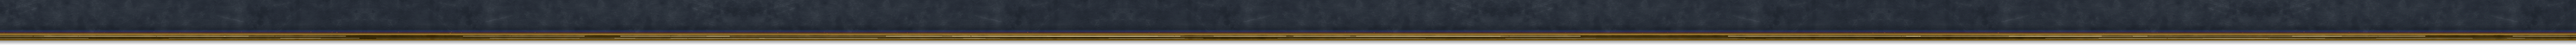
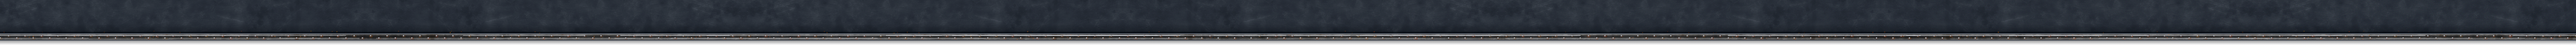
Top bar DS2: riveted steel beam, concrete behind the money, cash on an LED screen

Changed region(s): [[0.0, 0.6765, 1.0, 0.9118]]

diff --git a/price-of-everything-0.1/tools/button_mockup/cluster.html b/price-of-everything-0.1/tools/button_mockup/cluster.html
@@ -2184,7 +2184,7 @@ async function exportLayers() {
   // ?export&only=lamp,scroll renders just those sets and merges their entries into the existing
   // layout.json; the other layers are left as they are. Sets: block, footer, backing, section, keys,
   // lamp, scroll, seam, title, enamel, pin, cable, counter, sheet, plastic, door, heading, module,
-  // toggle, ldoor, modkey, sheetw, darkplate, modicon, screen, econ, diagicon, emblem, bar.
+  // toggle, ldoor, modkey, sheetw, darkplate, modicon, screen, econ, diagicon, emblem, bar, barconcrete.
   const only = new URLSearchParams(location.search).get('only');
   const want = (set) => !only || only.split(',').includes(set);
   const layout = only ? await fetch('/layers/layout.json').then((r) => (r.ok ? r.json() : {})) : {};
@@ -2366,45 +2366,107 @@ async function exportLayers() {
     layout.panel_backing = { size: [PW, PH], corner: 60, trim: TRIM };
   });
 
-  // --- the top bar's strip: the backing's navy steel running off the screen's top and both sides, a
-  // brass trim welded along its foot, and the shadow it throws on the map. Rendered as wide as a 32:9
-  // screen is at 1080 tall (3840 logical px), so the game crops it from the middle and never stretches it.
+  // --- the top bar's strip: the backing's weathered navy steel running off the screen's top and both
+  // sides, a riveted steel beam along its foot, and the shadow the bar throws on the map. Rendered as wide
+  // as a 32:9 screen is at 1080 tall (3840 logical px), so the game crops it from the middle and never
+  // stretches it. `barconcrete` is the concrete slab the game sets behind the money.
+  const BAR = { W: 7200, H: 112.5, BEAM: 16, SHADOW: 15, BLEED: 40 };
   if (want('bar')) await withSeed(424, async () => {
-    const W = 7200, H = 112.5, TRIM = 14, SHADOW = 15, BLEED = 40, group = new THREE.Group();
-    const join = H - TRIM;                                                  // the trim's top edge, where the weld runs
-    const heat = (g, w, h) => {                                             // the weld's heat tint, in bands above the join
-      g.save(); g.filter = 'blur(1.4px)';
-      for (const [d, colour, width] of [[3, 'rgba(222,182,98,0.45)', 2.8], [5.5, 'rgba(170,100,58,0.34)', 2.6], [8, 'rgba(126,82,160,0.26)', 2.6], [10.6, 'rgba(72,108,184,0.2)', 2.8], [13.2, 'rgba(72,108,184,0.08)', 2.8]]) {
-        const y = BLEED + join - d;
-        g.strokeStyle = colour; g.lineWidth = width; g.beginPath(); g.moveTo(0, y); g.lineTo(w, y); g.stroke();
-      }
-      g.restore();
-    };
+    const { W, H, BEAM, SHADOW, BLEED } = BAR, group = new THREE.Group();
+    const join = H - BEAM;                                                  // the beam's top edge
     // The plate reaches past the frame on three sides, so its rubbed edges are off the screen.
     const PW = W + 2 * BLEED, PH = join + BLEED + 6;
-    const face = { icons: [], buttons: [], screws: [], base: NAVY_STEEL_CANVAS, rub: '120,136,160', paint: heat };
+    const face = { icons: [], buttons: [], screws: [], base: NAVY_STEEL_CANVAS, rub: '120,136,160' };
     const steelSide = new THREE.MeshStandardMaterial({ color: 0x3a4250, metalness: 1, roughness: 0.45, envMap: studioEnv, envMapIntensity: 0.8 });
     const plate = new THREE.Mesh(extrude(rrShape(PW, PH, 16), 4, 4.5, 3.6, 6), [plateMaterial(PW, PH, face), steelSide]);
     plate.receiveShadow = true; plate.position.set(W / 2, 0, -BLEED + PH / 2); group.add(plate);
-    // The trim: a long brass bar laid over the plate's foot, its ends off the screen.
-    const tarnish = (r) => `rgba(${60 + r() * 20},${44 + r() * 14},${18 + r() * 10},${0.25 + r() * 0.35})`;
-    const TW = W + 2 * BLEED;
-    const trimFeat = { icons: [], buttons: [], screws: [], base: BRASS_TRIM_CANVAS, rub: '255,236,180', flecks: tarnish };
-    const brassSide = new THREE.MeshStandardMaterial({ color: 0xa8843f, metalness: 1, roughness: 0.4, envMap: studioEnv, envMapIntensity: 0.9 });
-    const trim = new THREE.Mesh(extrude(rrShape(TW, TRIM, 3), 2.5, 3, 2.4, 5), [plateMaterial(TW, TRIM, trimFeat), brassSide]);
-    trim.castShadow = trim.receiveShadow = true; trim.position.set(W / 2, PLATE_TOP - 1, join + TRIM / 2); group.add(trim);
-    const bead = weldBead(TW, 0.2, 0.1, 3.2);                               // in the join along the trim's top
-    bead.position.set(W / 2, PLATE_TOP, join + 1.2); group.add(bead);
-    // The shadow on the map below: one straight band, painted, since a shadow map this long loses
-    // its far end. A dark contact line under the trim, then a soft fall away from the house light.
+    // The beam: a steel flange laid along the plate's foot, weathered, with two staggered rows of rivets
+    // and rust blooming round them. Its ends are off the screen.
+    const BW = W + 2 * BLEED, PITCH = 46, rows = [BEAM * 0.3, BEAM * 0.7];
+    const rivets = [];
+    for (let x = 18, i = 0; x < BW; x += PITCH / 2, i++) rivets.push({ x, y: rows[i % 2] });
+    const bloom = (g) => {
+      g.save(); g.filter = 'blur(1.6px)';
+      for (const r of rivets) {
+        g.fillStyle = `rgba(${120 + rand() * 40},${58 + rand() * 20},${24 + rand() * 12},${0.12 + rand() * 0.2})`;
+        g.beginPath(); g.ellipse(r.x + 0.8, r.y + 1.2, 3.2 + rand() * 2, 2.4 + rand() * 1.6, 0, 0, Math.PI * 2); g.fill();
+      }
+      g.restore();
+    };
+    const beamFeat = { icons: [], buttons: [], screws: [], rub: '226,230,236', paint: bloom };
+    const beamSide = new THREE.MeshStandardMaterial({ color: 0x6b7078, metalness: 1, roughness: 0.5, envMap: studioEnv, envMapIntensity: 0.8 });
+    const beam = new THREE.Mesh(extrude(rrShape(BW, BEAM, 2), 3, 3, 2.4, 5), [plateMaterial(BW, BEAM, beamFeat), beamSide]);
+    beam.castShadow = beam.receiveShadow = true; beam.position.set(W / 2, PLATE_TOP - 1, join + BEAM / 2); group.add(beam);
+    const rivetGeo = new THREE.SphereGeometry(2.3, 14, 7, 0, Math.PI * 2, 0, Math.PI / 2);
+    const rivetMat = new THREE.MeshStandardMaterial({ color: 0x9aa0a8, map: noiseTexture(26, 40, 30), metalness: 1, roughness: 0.46, envMap: studioEnv, envMapIntensity: 0.9 });
+    for (const r of rivets) {
+      const m = new THREE.Mesh(rivetGeo, rivetMat);
+      m.scale.y = 0.55; m.position.set(r.x - BLEED, PLATE_TOP + 7.5, join + r.y); group.add(m);
+    }
     const strip = stage([0, 0, W, H + SHADOW], [group]).grab();
+    // The shadow on the map below: one straight band, painted, since a shadow map this long loses its
+    // far end. A dark contact line under the beam, then a soft fall away from the house light.
     await post('bar_strip', frame2d(W, H + SHADOW, (g) => {
       const fall = g.createLinearGradient(0, H, 0, H + SHADOW);
       fall.addColorStop(0, 'rgba(4,6,10,0.62)'); fall.addColorStop(0.25, 'rgba(4,6,10,0.34)'); fall.addColorStop(1, 'rgba(4,6,10,0)');
       g.fillStyle = fall; g.fillRect(0, H, W, SHADOW);
       g.drawImage(strip, 0, 0, W, H + SHADOW);
     }));
-    layout.bar_strip = { size: [W, H + SHADOW], height: H, trim: TRIM, shadow: SHADOW };
+    layout.bar_strip = { size: [W, H + SHADOW], height: H, beam: BEAM, shadow: SHADOW };
+  });
+  /** Cast concrete, weathered: grey with aggregate showing, bugholes, soft mottling, form-tie holes with rust
+   * run down from them, and chips along its edges. Painted in the slab's own pixels. */
+  const concreteCanvas = (w, h, ties) => canvas2d(w, h, (g) => {
+    g.fillStyle = '#44423f'; g.fillRect(0, 0, w, h);
+    g.save(); g.filter = 'blur(14px)';
+    for (let i = 0; i < Math.round(w * h / 1400); i++) {
+      g.fillStyle = `rgba(${rand() > 0.5 ? '235,230,220' : '20,18,16'},${0.025 + rand() * 0.035})`;
+      g.beginPath(); g.ellipse(rand() * w, rand() * h, 12 + rand() * 40, 8 + rand() * 26, rand() * Math.PI, 0, Math.PI * 2); g.fill();
+    }
+    g.restore();
+    for (let i = 0; i < Math.round(w * h / 9); i++) {                     // fine grain and aggregate
+      const light = rand() > 0.5, big = rand() < 0.08;
+      g.fillStyle = `rgba(${light ? '214,208,196' : '28,26,24'},${0.05 + rand() * (big ? 0.16 : 0.1)})`;
+      const sz = big ? 0.9 + rand() * 1.5 : 0.35 + rand() * 0.5;
+      g.fillRect(rand() * w, rand() * h, sz, sz * (0.6 + rand() * 0.8));
+    }
+    for (let i = 0; i < Math.round(w * h / 900); i++) {                   // bugholes: a dark pit, a lit lower lip
+      const x = rand() * w, y = rand() * h, r = 0.4 + rand() * 1.1;
+      g.fillStyle = 'rgba(14,13,12,0.55)'; g.beginPath(); g.ellipse(x, y, r, r * 0.8, 0, 0, Math.PI * 2); g.fill();
+      g.strokeStyle = 'rgba(210,204,192,0.18)'; g.lineWidth = 0.5; g.beginPath(); g.arc(x, y + 0.3, r, 0.2, Math.PI - 0.2); g.stroke();
+    }
+    for (const [x, y] of ties) {                                           // form ties, with rust run beneath
+      const run = g.createLinearGradient(0, y, 0, y + 26 + rand() * 20);
+      run.addColorStop(0, 'rgba(126,64,26,0.34)'); run.addColorStop(1, 'rgba(126,64,26,0)');
+      g.save(); g.filter = 'blur(1.2px)'; g.fillStyle = run; g.fillRect(x - 2.2, y, 4.4, 48); g.restore();
+      g.fillStyle = 'rgba(30,27,24,0.9)'; g.beginPath(); g.arc(x, y, 3.2, 0, Math.PI * 2); g.fill();
+      g.strokeStyle = 'rgba(190,184,172,0.35)'; g.lineWidth = 0.9; g.beginPath(); g.arc(x, y, 4.4, 0, Math.PI * 2); g.stroke();
+      g.fillStyle = 'rgba(110,62,30,0.8)'; g.beginPath(); g.arc(x, y, 1.4, 0, Math.PI * 2); g.fill();
+    }
+    for (let i = 0; i < Math.round((w + h) / 9); i++) {                   // chips along the edges
+      const side = Math.floor(rand() * 3), t = rand();
+      const x = side === 0 ? 4 + rand() * 6 : side === 1 ? w - 4 - rand() * 6 : 8 + t * (w - 16);
+      const y = side === 2 ? h - 4 - rand() * 6 : 8 + t * (h - 16);
+      g.fillStyle = `rgba(172,166,154,${0.25 + rand() * 0.35})`;
+      g.beginPath(); g.ellipse(x, y, 0.8 + rand() * 2.2, 0.6 + rand() * 1.6, rand() * Math.PI, 0, Math.PI * 2); g.fill();
+    }
+  });
+  // The concrete slab behind the money: cast in, its top off the screen, standing a little proud of the
+  // steel, its foot on the beam; it throws its shadow on the steel down and to the right.
+  if (want('barconcrete')) await withSeed(425, async () => {
+    const { H, BEAM, BLEED } = BAR, CW = 540, M = 16, join = H - BEAM, group = new THREE.Group();
+    const CH = join + BLEED - 1;
+    const ties = [[34, BLEED + 22], [CW - 34, BLEED + 22], [34, BLEED + join - 20], [CW - 34, BLEED + join - 20]];
+    const concrete = new THREE.MeshStandardMaterial({ map: faceTexture(concreteCanvas(CW, CH, ties), CW, CH), roughness: 0.93, metalness: 0,
+      envMap: roomEnv, envMapIntensity: 0.2 });
+    const concreteSide = new THREE.MeshStandardMaterial({ color: 0x55534f, roughness: 0.95, metalness: 0 });
+    const slab = new THREE.Mesh(extrude(rrShape(CW, CH, 3), 5, 2.2, 1.8, 3), [concrete, concreteSide]);
+    slab.castShadow = slab.receiveShadow = true; slab.position.set(M + CW / 2, PLATE_TOP - 1, -BLEED + CH / 2); group.add(slab);
+    // Catch its shadow on the steel either side (the strip is drawn under it), not on the beam.
+    const catcher = new THREE.Mesh(new THREE.PlaneGeometry(CW + 2 * M, join).rotateX(-Math.PI / 2), new THREE.ShadowMaterial({ opacity: 0.6 }));
+    catcher.position.set(M + CW / 2, PLATE_TOP - 1.5, join / 2); catcher.receiveShadow = true; group.add(catcher);
+    await post('bar_concrete', stage([0, 0, CW + 2 * M, H + BAR.SHADOW], [group]).grab());
+    layout.bar_concrete = { size: [CW + 2 * M, H + BAR.SHADOW], outset: M, slab: [CW, join] };
   });
 
   // --- a section frame: a narrow worn steel rim with a screw in each corner, drawn as a 9-slice

diff --git a/price-of-everything-0.1/docs/top-bar-ds2-plan.md b/price-of-everything-0.1/docs/top-bar-ds2-plan.md
@@ -199,6 +199,8 @@ Each phase is one branch-sized change with its renders, scripts, tests and captu
 
 **Phase 1 built (24 September), the strip.** Render set `bar` (seed 424, `cluster.html`) → `assets/ui/bdp_v3/bar_strip.png`: the backing's navy steel running off the screen's top and sides, a 14 layout px brass trim along its foot with a weld bead and heat tint above the join, and the shadow on the map painted as one band below (a shadow map 7200 layout px long lost its far end). It is 3840 logical px wide (32:9 at 1080) and 68 tall (the 60 px bar and 8 of shadow); `top_bar.gd` `_ds2_draw_strip` crops it from the middle at two texels a pixel, so it never stretches. Under the flag the bar's stylebox shadow and silver bezel give way to it, the lamp's multiply overlay (`BdpV3Light.shade_material`, a Node2D so the container leaves it alone) is drawn last over the strip, and the bar's labels take half the shade back. The modules regroup: the works (Power, Transport) on the left, the money on the screen's centre line (a gap before it sized each layout, `_ds2_centre_money`), then Victory, Rankings and the office on the right. The mission sits after the works until it moves to the dock. The modules themselves are still the v3.1 faces; phases 2 and 3 replace them. Switched off, the v3.1 order and look come back exactly. Test: `_test_topbar_ds2_strip`.
 
+**Phase 1 revised (24 September), owner's look.** The owner compared the navy steel with brushed dark titanium and a navy lacquered sheet, then chose the standard DS2 weathered steel without the brass. The strip (`bar`) is now the backing's navy steel with a riveted steel beam along its foot (a 16 layout px flange, two staggered rows of rivets with rust blooming round them). A concrete slab (`barconcrete`, seed 425, `bar_concrete.png`) stands behind the money: dark weathered cast concrete with aggregate, bugholes, four form-tie holes with rust runs and chipped edges, its top off the screen and its foot on the beam, drawn by `_ds2_draw_strip` on the money's centre line. The cash is on an LED screen (`BdpV3Led` at 0.75 scale, five cells always, blank ones unlit) in white, with the £ printed before it and the K or M after it (`scripts/ds2/money_figure.gd`); the net line under it is unchanged. The bar's icons keep their cream under the lamp and stand on a dark lift. The mission sits against the concrete's left edge. Tried and set aside: the lacquer, a silver pipe along the foot rising in arches between the groups, and titanium.
+
 Each closes with the ladder in `ds2-theme.md` §9: parse check, the bar's tests (check counts, not only failures), the full suite with a grep for `SCRIPT ERROR`, the captures, the compare against the standard, and the e2e leg: the e2e harness drives the Treasury by node path, so a top-bar change runs e2e even when it looks UI-only.
 
 ## 9. Contracts to keep
